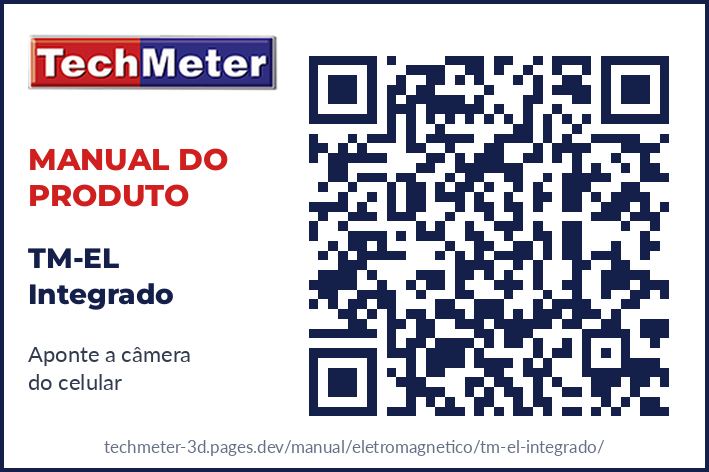
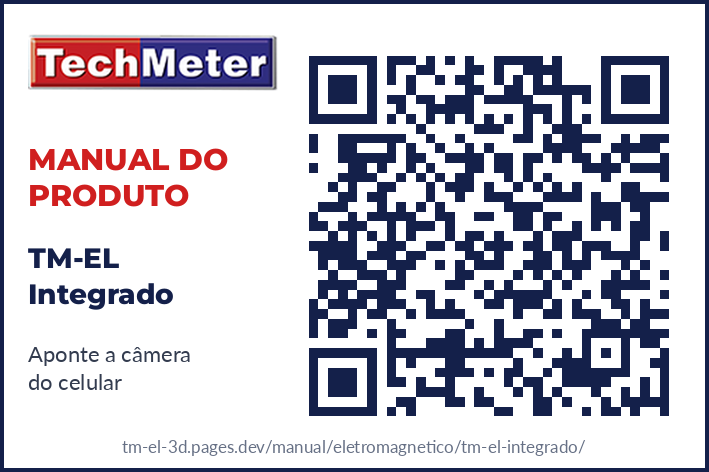
fix: QR codes e links do manual apontam para tm-el-3d.pages.dev
Claude-Session: https://claude.ai/code/session_015fvcEttop1tcYYHrFaHLL4

Changed region(s): [[0.4344, 0.1186, 0.9619, 0.8898], [0.1551, 0.9195, 0.8378, 0.9788]]

diff --git a/site/manual/eletromagnetico/tm-el-integrado/index.html b/site/manual/eletromagnetico/tm-el-integrado/index.html
@@ -3,7 +3,7 @@
 <meta name="viewport" content="width=device-width, initial-scale=1, viewport-fit=cover">
 <title>Manual TM-EL Integrado · Techmeter</title>
 <meta name="description" content="Manual do medidor de vazão eletromagnético TM-EL Flangeado · Conversor integrado: instalação, ligações e configuração.">
-<link rel="canonical" href="https://techmeter-3d.pages.dev/manual/eletromagnetico/tm-el-integrado/">
+<link rel="canonical" href="https://tm-el-3d.pages.dev/manual/eletromagnetico/tm-el-integrado/">
 <meta name="theme-color" content="#14204a">
 <link rel="stylesheet" href="../estilo.css">
 </head><body>

diff --git a/site/manual/eletromagnetico/tm-el-remoto/index.html b/site/manual/eletromagnetico/tm-el-remoto/index.html
@@ -3,7 +3,7 @@
 <meta name="viewport" content="width=device-width, initial-scale=1, viewport-fit=cover">
 <title>Manual TM-EL Remoto · Techmeter</title>
 <meta name="description" content="Manual do medidor de vazão eletromagnético TM-EL Flangeado · Conversor remoto: instalação, ligações e configuração.">
-<link rel="canonical" href="https://techmeter-3d.pages.dev/manual/eletromagnetico/tm-el-remoto/">
+<link rel="canonical" href="https://tm-el-3d.pages.dev/manual/eletromagnetico/tm-el-remoto/">
 <meta name="theme-color" content="#14204a">
 <link rel="stylesheet" href="../estilo.css">
 </head><body>

diff --git a/site/manual/eletromagnetico/tmtc-sanitario/index.html b/site/manual/eletromagnetico/tmtc-sanitario/index.html
@@ -3,7 +3,7 @@
 <meta name="viewport" content="width=device-width, initial-scale=1, viewport-fit=cover">
 <title>Manual TMTC Tri-Clamp · Techmeter</title>
 <meta name="description" content="Manual do medidor de vazão eletromagnético TMTC Tri-Clamp · Sanitário: instalação, ligações e configuração.">
-<link rel="canonical" href="https://techmeter-3d.pages.dev/manual/eletromagnetico/tmtc-sanitario/">
+<link rel="canonical" href="https://tm-el-3d.pages.dev/manual/eletromagnetico/tmtc-sanitario/">
 <meta name="theme-color" content="#14204a">
 <link rel="stylesheet" href="../estilo.css">
 </head><body>

diff --git a/site/manual/eletromagnetico/tmwf-wafer/index.html b/site/manual/eletromagnetico/tmwf-wafer/index.html
@@ -3,7 +3,7 @@
 <meta name="viewport" content="width=device-width, initial-scale=1, viewport-fit=cover">
 <title>Manual TMWF Wafer · Techmeter</title>
 <meta name="description" content="Manual do medidor de vazão eletromagnético TMWF Wafer: instalação, ligações e configuração.">
-<link rel="canonical" href="https://techmeter-3d.pages.dev/manual/eletromagnetico/tmwf-wafer/">
+<link rel="canonical" href="https://tm-el-3d.pages.dev/manual/eletromagnetico/tmwf-wafer/">
 <meta name="theme-color" content="#14204a">
 <link rel="stylesheet" href="../estilo.css">
 </head><body>

diff --git a/manuais-online/eletromagnetico/README.md b/manuais-online/eletromagnetico/README.md
@@ -22,7 +22,7 @@ botão de WhatsApp do suporte e PDF para baixar.
 - `qrcodes/<modelo>-etiqueta.png`: etiqueta 60 × 40 mm (300 dpi) pronta para imprimir.
 - `qrcodes/<modelo>-qr.svg` / `.png`: só o QR, para usar em outras artes.
 - **O endereço do QR não pode mudar depois de impresso.** Hoje ele aponta para `url_base` em `modelos.json`
-  (`https://techmeter-3d.pages.dev`). Se for usar um domínio próprio (ex.: `manual.techmeter.com.br`),
+  (`https://tm-el-3d.pages.dev`). Se for usar um domínio próprio (ex.: `manual.techmeter.com.br`),
   troque `url_base` e gere de novo **antes** de imprimir.
 
 ## Fontes
